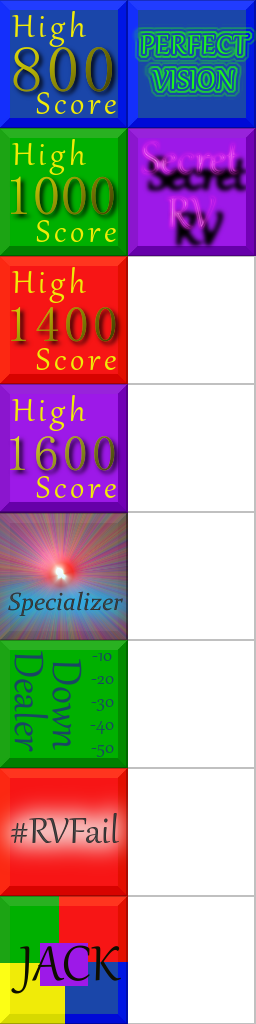
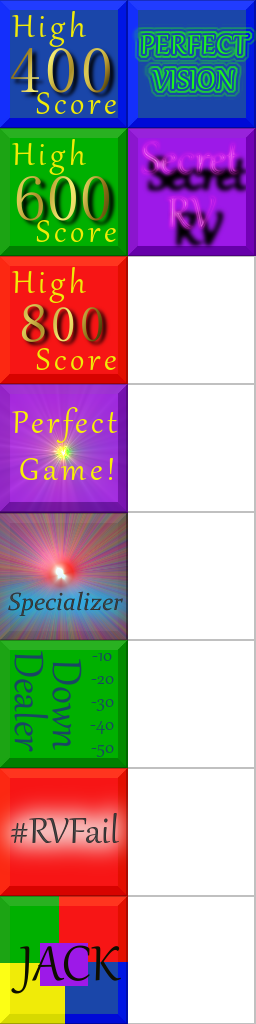
Lower High Score Achievements, closes #48

diff --git a/rendezvous/achievements.py b/rendezvous/achievements.py
@@ -5,6 +5,7 @@ import warnings
 
 from rendezvous import AchieveType, AchievementSyntaxWarning, FileReader
 from rendezvous import SpecialSuit, SpecialValue, Operator, Alignment
+from rendezvous import GameSettings
 
 
 class AchievementCriterion(object):
@@ -744,7 +745,7 @@ class AchievementList(object):
         achievement = self[achievement]  # find by name if needed
         if achievement not in self.achieved:
             self.achieved.append(achievement.name)
-            self._check_special()
+            self.achieved.extend(self._check_secret_rendezvous())
             try:
                 f = open(self._unlocked_file, 'a')
                 f.write('[ACH-NAME]%s\n' % achievement.name)
@@ -760,7 +761,8 @@ class AchievementList(object):
                 if achievement.check(score, player_index, stats):
                     reached.append(self.achieve(achievement))
         if reached:
-            reached.extend(self._check_special())
+            reached.extend(self._check_special(player_index, score=score,
+                                               stats=stats))
         return reached
         
     def check_round(self, board, player_index):
@@ -771,11 +773,16 @@ class AchievementList(object):
                 if achievement.check_round(board, player_index):
                     reached.append(self.achieve(achievement))
         if reached:
-            reached.extend(self._check_special())
+            reached.extend(self._check_special(player_index, board=board))
         return reached
 
-    def _check_special(self):
-        """Check for the special Secret Rendezvous Achievement."""
+    def _check_special(self, player_index, board=None, score=None, stats=None):
+        """Check for uncoded special achievements."""
+        return (self._check_secret_rendezvous() +
+                self._check_perfect_game(player_index, score))
+
+    def _check_secret_rendezvous(self):
+        """Award Secret Rendezvous if all cards unlocked in a custom deck."""
         if "Secret RendezVous" in self.achieved:
             return []
         if "Standard" in self.deck_image_file:
@@ -785,6 +792,24 @@ class AchievementList(object):
                 if achievement not in self.achieved:
                     return []
         return [self["Secret RendezVous"]]
+
+    def _check_perfect_game(self, player_index, score):
+        """Award Perfect Game for a 20-round game with no lost matches."""
+        if score is None:  # checking a round
+            return []
+        if "Perfect Game" in self.achieved:
+            return []
+        if GameSettings.NUM_ROUNDS < 20:
+            return []
+        for dealer_score in score.scores[player_index-1]:
+            if dealer_score > 0:
+                return []
+        dealer_score = score.total(player_index-1)
+        if dealer_score >= 0:
+            return []
+        if score.total(player_index) != int(2 * abs(dealer_score)):
+            return []
+        return [self["Perfect Game"]]
 
     def deck_specific(self, achievement):
         """Return boolean indicating whether achievement is deck-specific."""

diff --git a/testrendezvous/testachievements.py b/testrendezvous/testachievements.py
@@ -1,7 +1,7 @@
 import os
 import unittest
 
-from rendezvous import Alignment
+from rendezvous import GameSettings, Alignment
 from rendezvous.deck import SpecialCard, Card
 from rendezvous.specials import Application
 from rendezvous.gameplay import Scoreboard, Gameboard
@@ -1100,7 +1100,7 @@ class TestAchievementList(unittest.TestCase):
         
     def test_init(self):
         self.assertEqual(repr(self.a.available[0]), 
-                         "Achievement('RendezVous Beginner', 'Play a game of RendezVous.', 'Reinforcements')")
+                         "Achievement('RendezVous Beginner', 'Play a game of RendezVous with Standard.', 'Reinforcements')")
         self.assertEqual(len(self.a.available), 24)
         self.assertEqual(self.a.achieved, [])
         self.assertTrue(os.path.isfile("test_unlock.test"))
@@ -1151,6 +1151,48 @@ class TestAchievementList(unittest.TestCase):
         """Verify unlocked SpecialCards not associated with an Achievement."""
         self.a.achieve("RendezVous Student")
         self.assertTrue(self.a.unlocked("Invalid SpecialCard"))
+
+
+class TestPerfectGame(unittest.TestCase):
+    
+    def setUp(self):
+        """Load the default Achievements for testing."""
+        self.a = AchievementList("test_unlock.test")
+        self.s = Scoreboard(DummyDeckDefinition())
+        self.backup = GameSettings.NUM_ROUNDS
+
+    def tearDown(self):
+        GameSettings.NUM_ROUNDS = self.backup
+
+    def test_perfect_game_false(self):
+        """Verify that Perfect Game is not awarded prematurely."""
+        GameSettings.NUM_ROUNDS = 20
+        self.s.scores = [[300, 100], [100, 300]]
+        self.assertEqual(self.a._check_perfect_game(1, self.s), [])
+        
+    def test_perfect_game_short(self):
+        """Verify that Perfect Game is not awarded for a short game."""
+        GameSettings.NUM_ROUNDS = 10
+        self.s.scores = [[-10, -10], [20, 20]]
+        self.assertEqual(self.a._check_perfect_game(1, self.s), [])
+        
+    def test_perfect_game_tie(self):
+        """Verify that Perfect Game doesn't count a perfect tie."""
+        GameSettings.NUM_ROUNDS = 20
+        self.s.scores = [[0, 0], [0, 0]]
+        self.assertEqual(self.a._check_perfect_game(1, self.s), [])
+        
+    def test_perfect_game_true(self):
+        """Verify that Perfect Game is awarded when earned."""
+        GameSettings.NUM_ROUNDS = 20
+        self.s.scores = [[-10, -10], [20, 20]]
+        self.assertNotEqual(self.a._check_perfect_game(1, self.s), [])
+        
+    def test_perfect_game_with_tie(self):
+        """Verify that a tied suit doesn't preclude Perfect Game."""
+        GameSettings.NUM_ROUNDS = 20
+        self.s.scores = [[0, -10], [0, 20]]
+        self.assertNotEqual(self.a._check_perfect_game(1, self.s), [])
 
 
 if __name__ == "__main__":
